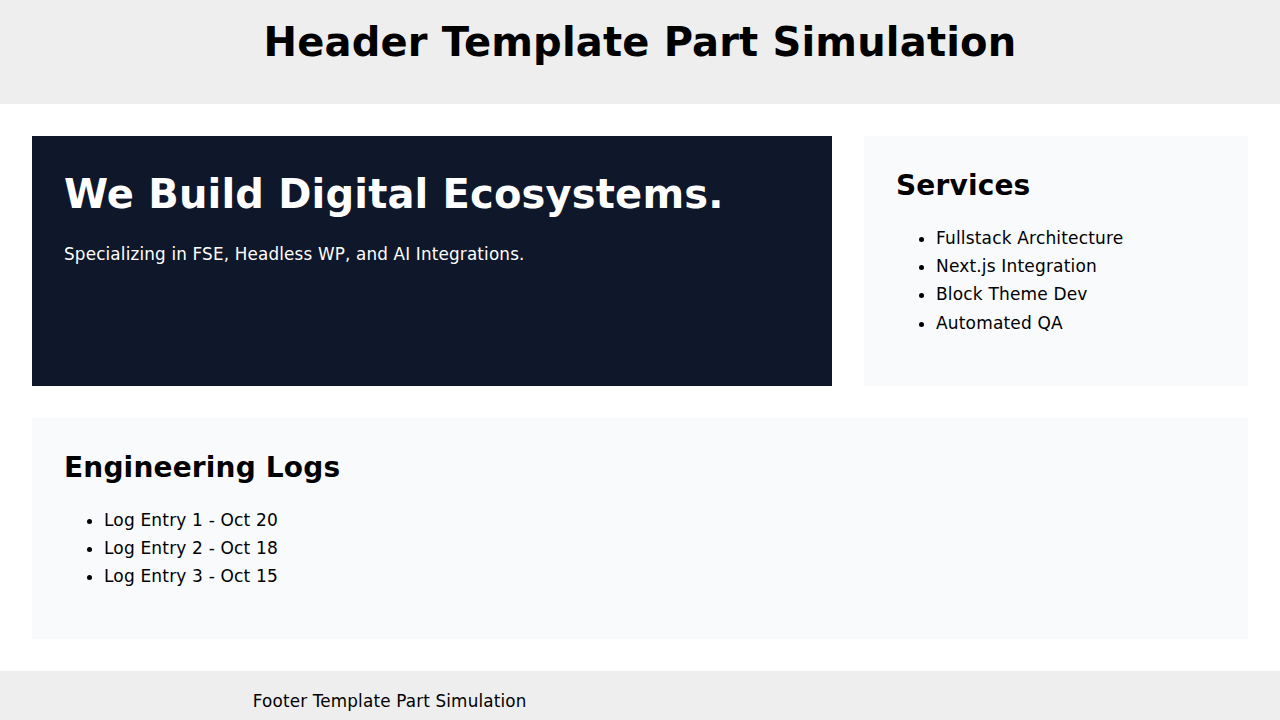
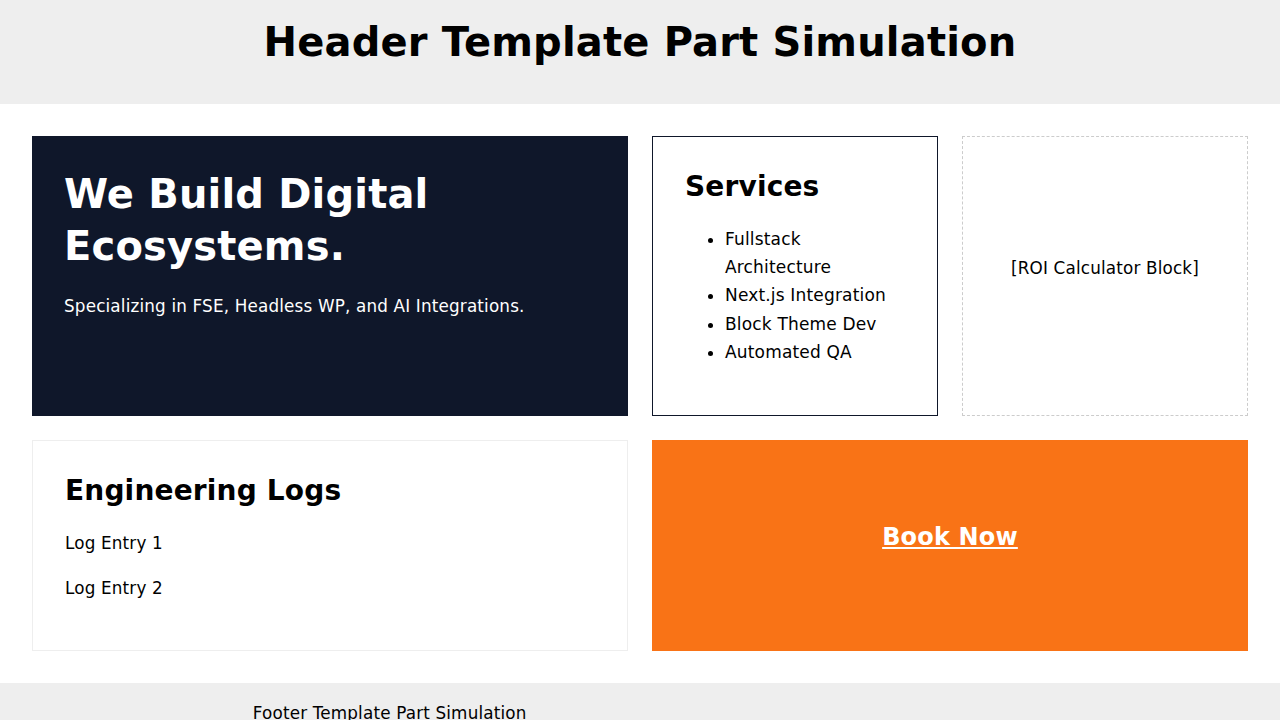
Resolve conflicts in Bento Grid pattern and finalize Front Page template
- Merged layout structure from main (4-column grid) with requested content strategy (Hero text, Services list, Engineering Logs).
- Created `templates/front-page.html` referencing the finalized `hoplytics/bento-grid` pattern.
- Verified content via static HTML simulation and Playwright.

diff --git a/verification/front-page-simulation.html b/verification/front-page-simulation.html
@@ -5,7 +5,7 @@
     <meta name="viewport" content="width=device-width, initial-scale=1.0">
     <title>Front Page Simulation</title>
     <link rel="stylesheet" href="../style.css">
-    <link rel="stylesheet" href="../assets/css/main.css"> <!-- Assuming this exists from comments in style.css -->
+    <link rel="stylesheet" href="../assets/css/main.css">
     <style>
         /* Basic reset and variable shim for simulation */
         :root {
@@ -17,6 +17,9 @@
             --wp--preset--color--contrast: #0F172A;
             --wp--preset--color--tertiary: #F97316; /* Orange 500 */
             --wp--preset--color--white: #FFFFFF;
+            --wp--preset--color--surface: #F8FAFC; /* Guessing based on "has-surface-color" */
+            --wp--preset--color--accent: #F97316;
+            --wp--preset--color--text: #0F172A;
         }
         body {
             font-family: system-ui, -apple-system, sans-serif;
@@ -33,14 +36,18 @@
         .wp-block-heading {
             margin-top: 0;
         }
-        /* Grid simulation */
-        .wp-block-group.alignfull > .wp-block-group:first-child {
-            /* Mimic the grid container */
+
+        /* Grid simulation matching 'main' layout */
+        .hoplytics-bento-grid {
             display: grid;
-            grid-template-columns: repeat(3, 1fr); /* Corrected from 2 to 3 to match PHP logic update if applicable, but PHP code said 3 */
-            gap: var(--wp--preset--spacing--50);
-            padding: var(--wp--preset--spacing--50);
+            grid-template-columns: repeat(4, 1fr);
+            grid-template-rows: auto auto;
+            gap: 1.5rem;
+            padding: 2rem;
+            max-width: 1400px;
+            margin: 0 auto;
         }
+
         /* Apply background colors */
         .has-primary-background-color { background-color: var(--wp--preset--color--primary); color: white; }
         .has-secondary-background-color { background-color: var(--wp--preset--color--secondary); color: white; }
@@ -63,38 +70,45 @@
 </header>
 
 <!-- Bento Grid Pattern Content -->
-<div class="wp-block-group alignfull">
-    <div style="display:grid; grid-template-columns: repeat(3, 1fr); gap: 2rem; padding: 2rem;">
+<div class="wp-block-group hoplytics-bento-grid">
 
-        <!-- Hero Tile -->
-        <div class="wp-block-group has-white-color has-primary-background-color has-text-color has-background" style="padding: 2rem; grid-column: span 2;">
-            <h1 class="wp-block-heading">We Build Digital Ecosystems.</h1>
-            <p>Specializing in FSE, Headless WP, and AI Integrations.</p>
-        </div>
-
-        <!-- Services List -->
-        <div class="wp-block-group has-base-background-color has-background" style="padding: 2rem;">
-            <h3 class="wp-block-heading">Services</h3>
-            <ul>
-                <li>Fullstack Architecture</li>
-                <li>Next.js Integration</li>
-                <li>Block Theme Dev</li>
-                <li>Automated QA</li>
-            </ul>
-        </div>
-
-        <!-- Insights Header (Engineering Logs) -->
-        <div class="wp-block-group has-base-background-color has-background" style="padding: 2rem; grid-column: span 3;">
-            <h3 class="wp-block-heading">Engineering Logs</h3>
-            <!-- Mock posts -->
-            <ul>
-                <li><a href="#">Log Entry 1</a> - Oct 20</li>
-                <li><a href="#">Log Entry 2</a> - Oct 18</li>
-                <li><a href="#">Log Entry 3</a> - Oct 15</li>
-            </ul>
-        </div>
-
+    <!-- Hero Tile -->
+    <div class="wp-block-group has-text-color has-background has-surface-color has-primary-background-color" style="grid-column: span 2; grid-row: span 2; padding: 2rem; background-color: var(--wp--preset--color--primary); color: white;">
+        <h1 class="wp-block-heading">We Build Digital Ecosystems.</h1>
+        <p>Specializing in FSE, Headless WP, and AI Integrations.</p>
     </div>
+
+    <!-- Services List -->
+    <div class="wp-block-group" style="grid-column: span 1; grid-row: span 2; padding: 2rem; border: 1px solid var(--wp--preset--color--text);">
+        <h3 class="wp-block-heading">Services</h3>
+        <ul>
+            <li>Fullstack Architecture</li>
+            <li>Next.js Integration</li>
+            <li>Block Theme Dev</li>
+            <li>Automated QA</li>
+        </ul>
+    </div>
+
+    <!-- ROI Calculator Placeholder -->
+    <div class="wp-block-group" style="grid-column: span 1; grid-row: span 2; padding: 2rem; border: 1px dashed #ccc; display: flex; align-items: center; justify-content: center;">
+        <p>[ROI Calculator Block]</p>
+    </div>
+
+    <!-- Insights Header (Engineering Logs) -->
+    <div class="wp-block-group" style="grid-column: span 2; grid-row: span 1; padding: 2rem; border: 1px solid #eee;">
+        <h3 class="wp-block-heading">Engineering Logs</h3>
+        <!-- Mock posts -->
+        <div class="wp-block-query">
+            <p><a href="#">Log Entry 1</a></p>
+            <p><a href="#">Log Entry 2</a></p>
+        </div>
+    </div>
+
+    <!-- CTA -->
+    <div class="wp-block-group has-text-color has-background" style="background-color:var(--wp--preset--color--accent);color:#ffffff;grid-column: span 2; grid-row: span 1; padding: 2rem; display: flex; align-items: center; justify-content: center;">
+        <p class="has-text-align-center" style="font-size:1.5rem;font-weight:bold"><a href="/contact" style="color: inherit; text-decoration: underline;">Book Now</a></p>
+    </div>
+
 </div>
 
 <footer>

diff --git a/patterns/bento-grid.php b/patterns/bento-grid.php
@@ -1,45 +1,39 @@
 <?php
 /**
- * Title: Bento Grid
+ * Title: Bento Home Grid
  * Slug: hoplytics/bento-grid
  * Categories: featured
- * Description: A bento grid layout for the front page.
  */
 ?>
-<!-- wp:group {"align":"full","layout":{"type":"grid","columnCount":3,"minimumColumnWidth":null},"style":{"spacing":{"blockGap":"var:preset|spacing|50"}}} -->
-<div class="wp-block-group alignfull">
-    <!-- wp:group {"layout":{"type":"constrained"},"style":{"spacing":{"padding":{"top":"var:preset|spacing|50","bottom":"var:preset|spacing|50","left":"var:preset|spacing|50","right":"var:preset|spacing|50"}}},"backgroundColor":"primary","textColor":"white"} -->
-    <div class="wp-block-group has-white-color has-primary-background-color has-text-color has-background" style="padding-top:var(--wp--preset--spacing--50);padding-right:var(--wp--preset--spacing--50);padding-bottom:var(--wp--preset--spacing--50);padding-left:var(--wp--preset--spacing--50)">
+<!-- wp:group {"className":"hoplytics-bento-grid","style":{"spacing":{"blockGap":"1.5rem"}}} -->
+<div class="wp-block-group hoplytics-bento-grid" style="display: grid; grid-template-columns: repeat(4, 1fr); grid-template-rows: auto auto; gap: 1.5rem;">
+    <!-- wp:group {"style":{"color":{"background":"var(--wp--preset--color--primary)","text":"var(--wp--preset--color--surface)"}},"layout":{"type":"constrained"}} -->
+    <div class="wp-block-group has-text-color has-background has-surface-color has-primary-background-color" style="grid-column: span 2; grid-row: span 2; padding: 2rem; background-color: var(--wp--preset--color--primary); color: var(--wp--preset--color--surface);">
         <!-- wp:heading {"level":1} -->
         <h1 class="wp-block-heading">We Build Digital Ecosystems.</h1>
         <!-- /wp:heading -->
-
         <!-- wp:paragraph -->
         <p>Specializing in FSE, Headless WP, and AI Integrations.</p>
         <!-- /wp:paragraph -->
     </div>
     <!-- /wp:group -->
 
-    <!-- wp:group {"layout":{"type":"constrained"},"style":{"spacing":{"padding":{"top":"var:preset|spacing|50","bottom":"var:preset|spacing|50","left":"var:preset|spacing|50","right":"var:preset|spacing|50"}}},"backgroundColor":"base"} -->
-    <div class="wp-block-group has-base-background-color has-background" style="padding-top:var(--wp--preset--spacing--50);padding-right:var(--wp--preset--spacing--50);padding-bottom:var(--wp--preset--spacing--50);padding-left:var(--wp--preset--spacing--50)">
+    <!-- wp:group {"layout":{"type":"constrained"}} -->
+    <div class="wp-block-group" style="grid-column: span 1; grid-row: span 2; padding: 2rem; border: 1px solid var(--wp--preset--color--text);">
         <!-- wp:heading {"level":3} -->
         <h3 class="wp-block-heading">Services</h3>
         <!-- /wp:heading -->
-
         <!-- wp:list -->
         <ul>
             <!-- wp:list-item -->
             <li>Fullstack Architecture</li>
             <!-- /wp:list-item -->
-
             <!-- wp:list-item -->
             <li>Next.js Integration</li>
             <!-- /wp:list-item -->
-
             <!-- wp:list-item -->
             <li>Block Theme Dev</li>
             <!-- /wp:list-item -->
-
             <!-- wp:list-item -->
             <li>Automated QA</li>
             <!-- /wp:list-item -->
@@ -48,13 +42,32 @@
     </div>
     <!-- /wp:group -->
 
-    <!-- wp:group {"layout":{"type":"constrained"},"style":{"spacing":{"padding":{"top":"var:preset|spacing|50","bottom":"var:preset|spacing|50","left":"var:preset|spacing|50","right":"var:preset|spacing|50"}}},"backgroundColor":"base"} -->
-    <div class="wp-block-group has-base-background-color has-background" style="padding-top:var(--wp--preset--spacing--50);padding-right:var(--wp--preset--spacing--50);padding-bottom:var(--wp--preset--spacing--50);padding-left:var(--wp--preset--spacing--50)">
+    <!-- wp:group {"layout":{"type":"constrained"}} -->
+    <div class="wp-block-group" style="grid-column: span 1; grid-row: span 2;">
+        <!-- wp:hoplytics/roi-calculator /-->
+    </div>
+    <!-- /wp:group -->
+
+    <!-- wp:group {"layout":{"type":"constrained"}} -->
+    <div class="wp-block-group" style="grid-column: span 2; grid-row: span 1; padding: 2rem;">
         <!-- wp:heading {"level":3} -->
         <h3 class="wp-block-heading">Engineering Logs</h3>
         <!-- /wp:heading -->
+        <!-- wp:query {"queryId":1,"query":{"perPage":2,"pages":0,"offset":0,"postType":"post","order":"desc","orderBy":"date","author":"","search":"","exclude":[],"sticky":"","inherit":false},"displayLayout":{"type":"flex","columns":2}} -->
+        <div class="wp-block-query">
+            <!-- wp:post-template -->
+            <!-- wp:post-title /-->
+            <!-- /wp:post-template -->
+        </div>
+        <!-- /wp:query -->
+    </div>
+    <!-- /wp:group -->
 
-        <!-- wp:latest-posts {"postsToShow":3,"displayPostDate":true} /-->
+    <!-- wp:group {"style":{"color":{"background":"var(--wp--preset--color--accent)","text":"#ffffff"}},"layout":{"type":"constrained"}} -->
+    <div class="wp-block-group has-text-color has-background" style="background-color:var(--wp--preset--color--accent);color:#ffffff;grid-column: span 2; grid-row: span 1; padding: 2rem; display: flex; align-items: center; justify-content: center;">
+        <!-- wp:paragraph {"align":"center","style":{"typography":{"fontSize":"1.5rem","fontWeight":"bold"}}} -->
+        <p class="has-text-align-center" style="font-size:1.5rem;font-weight:bold"><a href="/contact" style="color: inherit; text-decoration: underline;">Book Now</a></p>
+        <!-- /wp:paragraph -->
     </div>
     <!-- /wp:group -->
 </div>
